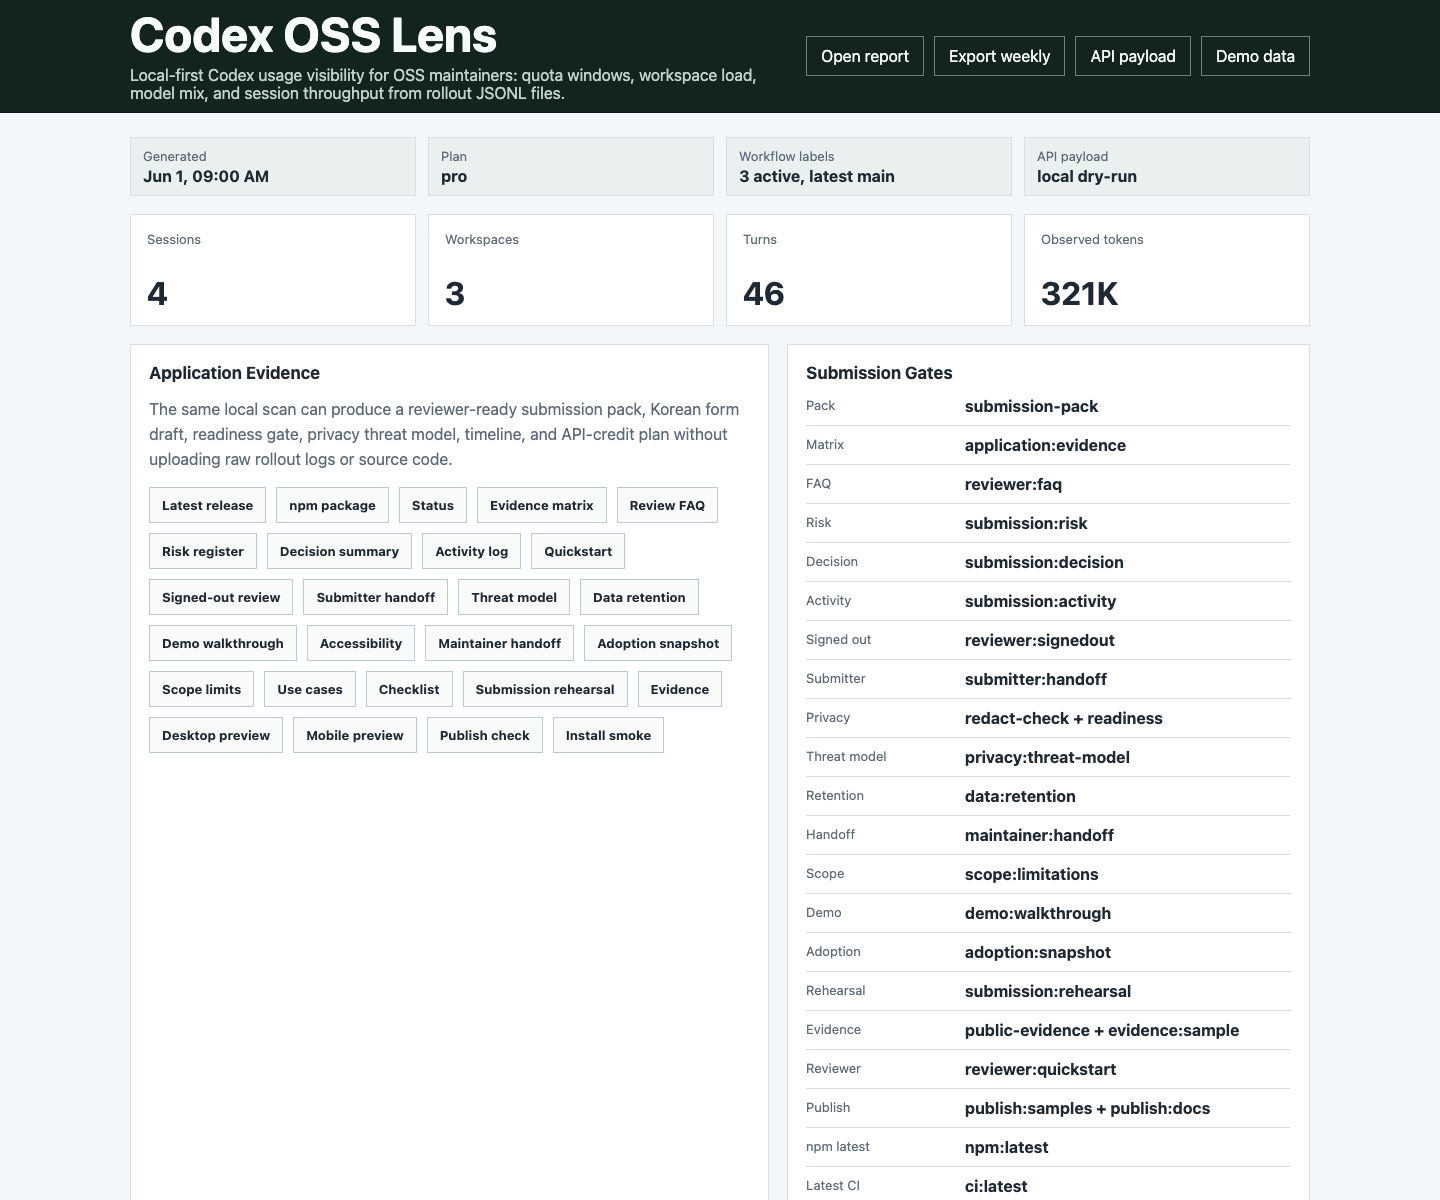
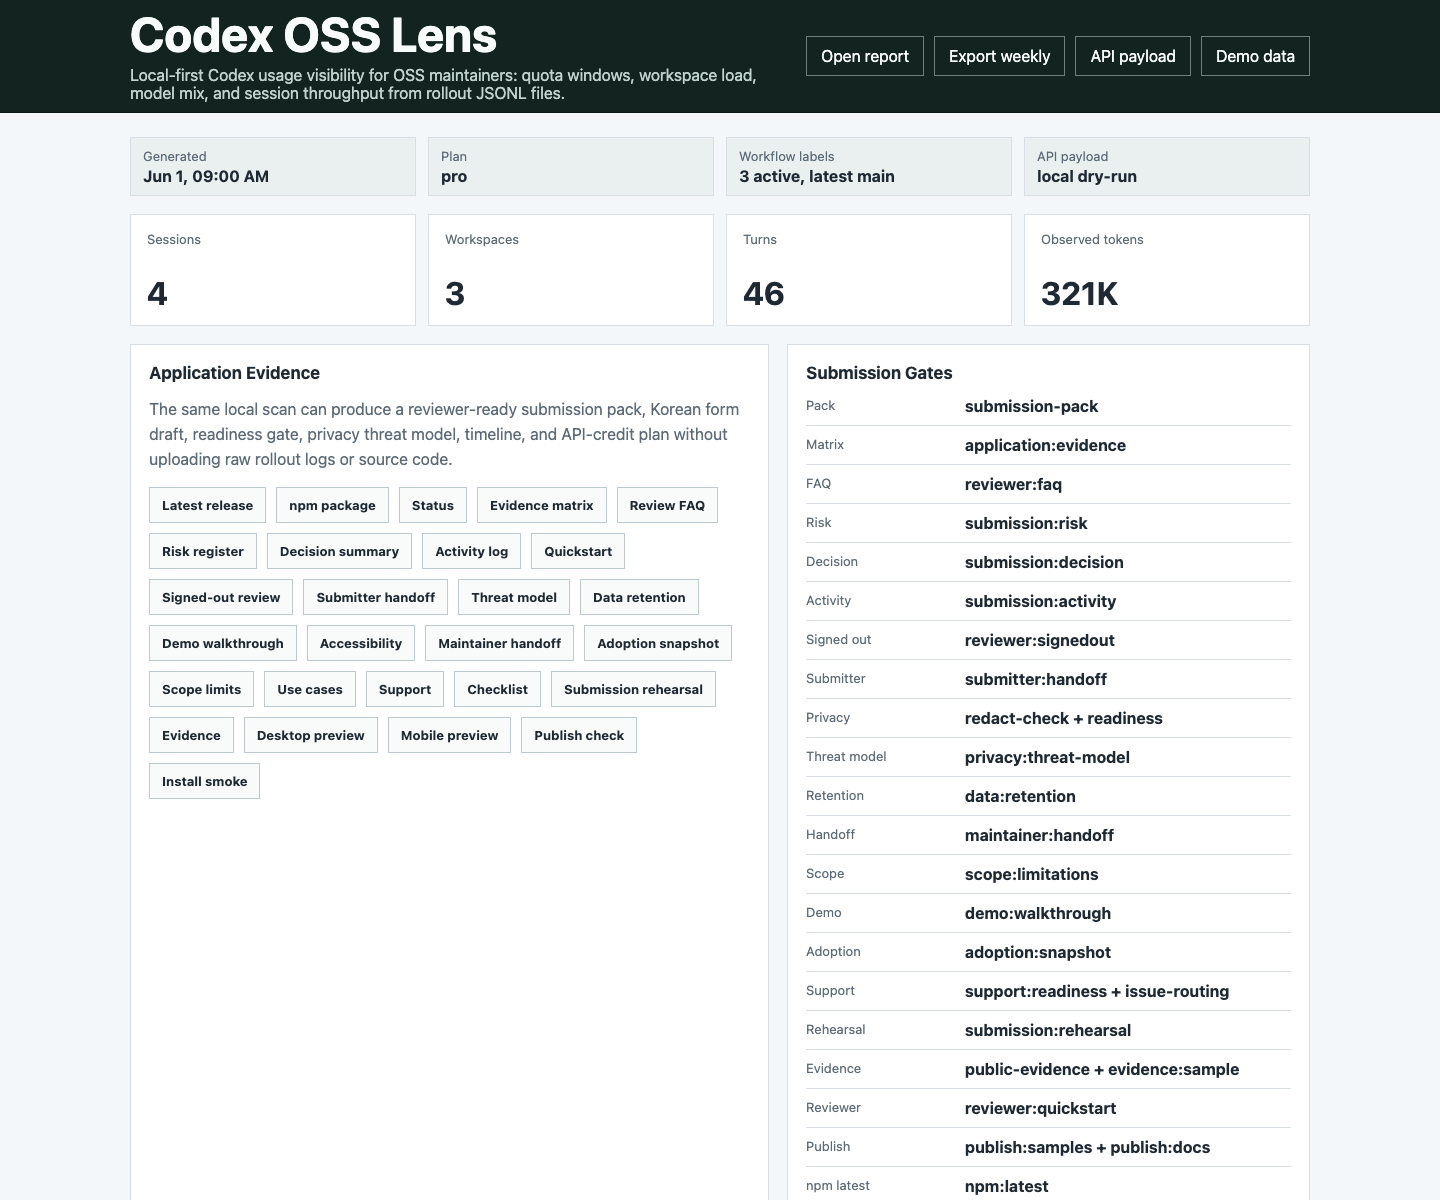
Surface support route on dashboard
The public dashboard now exposes the support policy link and the support plus issue-routing readiness gate in the first reviewer evidence view. The dashboard readiness check requires those signals, and the desktop preview PNG was regenerated from the updated UI.

Constraint: Dashboard evidence should show the public support loop without asking reviewers or users to share raw Codex logs, prompts, paths, secrets, or private source.

Constraint: This is source and public preview evidence only; it does not claim a new npm package release.

Rejected: Keep support routing only in docs | reviewers using the dashboard preview would miss the public feedback path.

Confidence: high

Scope-risk: low

Directive: Keep dashboard evidence and preview images synchronized whenever public reviewer routes or submission gates change.

Tested: npm run dashboard:readiness && git diff --check

Tested: npm run submission:check && git diff --check

diff --git a/public/index.html b/public/index.html
@@ -451,6 +451,7 @@
               <a class="link-button" href="https://github.com/dbunk903/codex-oss-lens/blob/main/docs/adoption-snapshot.md">Adoption snapshot</a>
               <a class="link-button" href="https://github.com/dbunk903/codex-oss-lens/blob/main/docs/scope-and-limitations.md">Scope limits</a>
               <a class="link-button" href="https://github.com/dbunk903/codex-oss-lens/blob/main/docs/maintainer-use-cases.md">Use cases</a>
+              <a class="link-button" href="https://github.com/dbunk903/codex-oss-lens/blob/main/SUPPORT.md">Support</a>
               <a class="link-button" href="https://github.com/dbunk903/codex-oss-lens/blob/main/docs/final-submission-checklist.md">Checklist</a>
               <a class="link-button" href="https://github.com/dbunk903/codex-oss-lens/blob/main/docs/submission-rehearsal.md">Submission rehearsal</a>
               <a class="link-button" href="https://github.com/dbunk903/codex-oss-lens/blob/main/examples/public-evidence.sample.md">Evidence</a>
@@ -478,6 +479,7 @@
               <li><span class="label">Scope</span><strong>scope:limitations</strong></li>
               <li><span class="label">Demo</span><strong>demo:walkthrough</strong></li>
               <li><span class="label">Adoption</span><strong>adoption:snapshot</strong></li>
+              <li><span class="label">Support</span><strong>support:readiness + issue-routing</strong></li>
               <li><span class="label">Rehearsal</span><strong>submission:rehearsal</strong></li>
               <li><span class="label">Evidence</span><strong>public-evidence + evidence:sample</strong></li>
               <li><span class="label">Reviewer</span><strong>reviewer:quickstart</strong></li>

diff --git a/scripts/check-dashboard-readiness.js b/scripts/check-dashboard-readiness.js
@@ -50,6 +50,9 @@ requireText("demo:walkthrough", "dashboard demo walkthrough gate");
 requireText("docs/adoption-snapshot.md", "dashboard adoption snapshot link");
 requireText("Adoption snapshot", "dashboard adoption snapshot label");
 requireText("adoption:snapshot", "dashboard adoption snapshot gate");
+requireText("SUPPORT.md", "dashboard support link");
+requireText("Support", "dashboard support label");
+requireText("support:readiness + issue-routing", "dashboard support and issue routing gate");
 requireText("docs/submission-rehearsal.md", "dashboard submission rehearsal link");
 requireText("Submission rehearsal", "dashboard submission rehearsal label");
 requireText("submission:rehearsal", "dashboard submission rehearsal gate");
